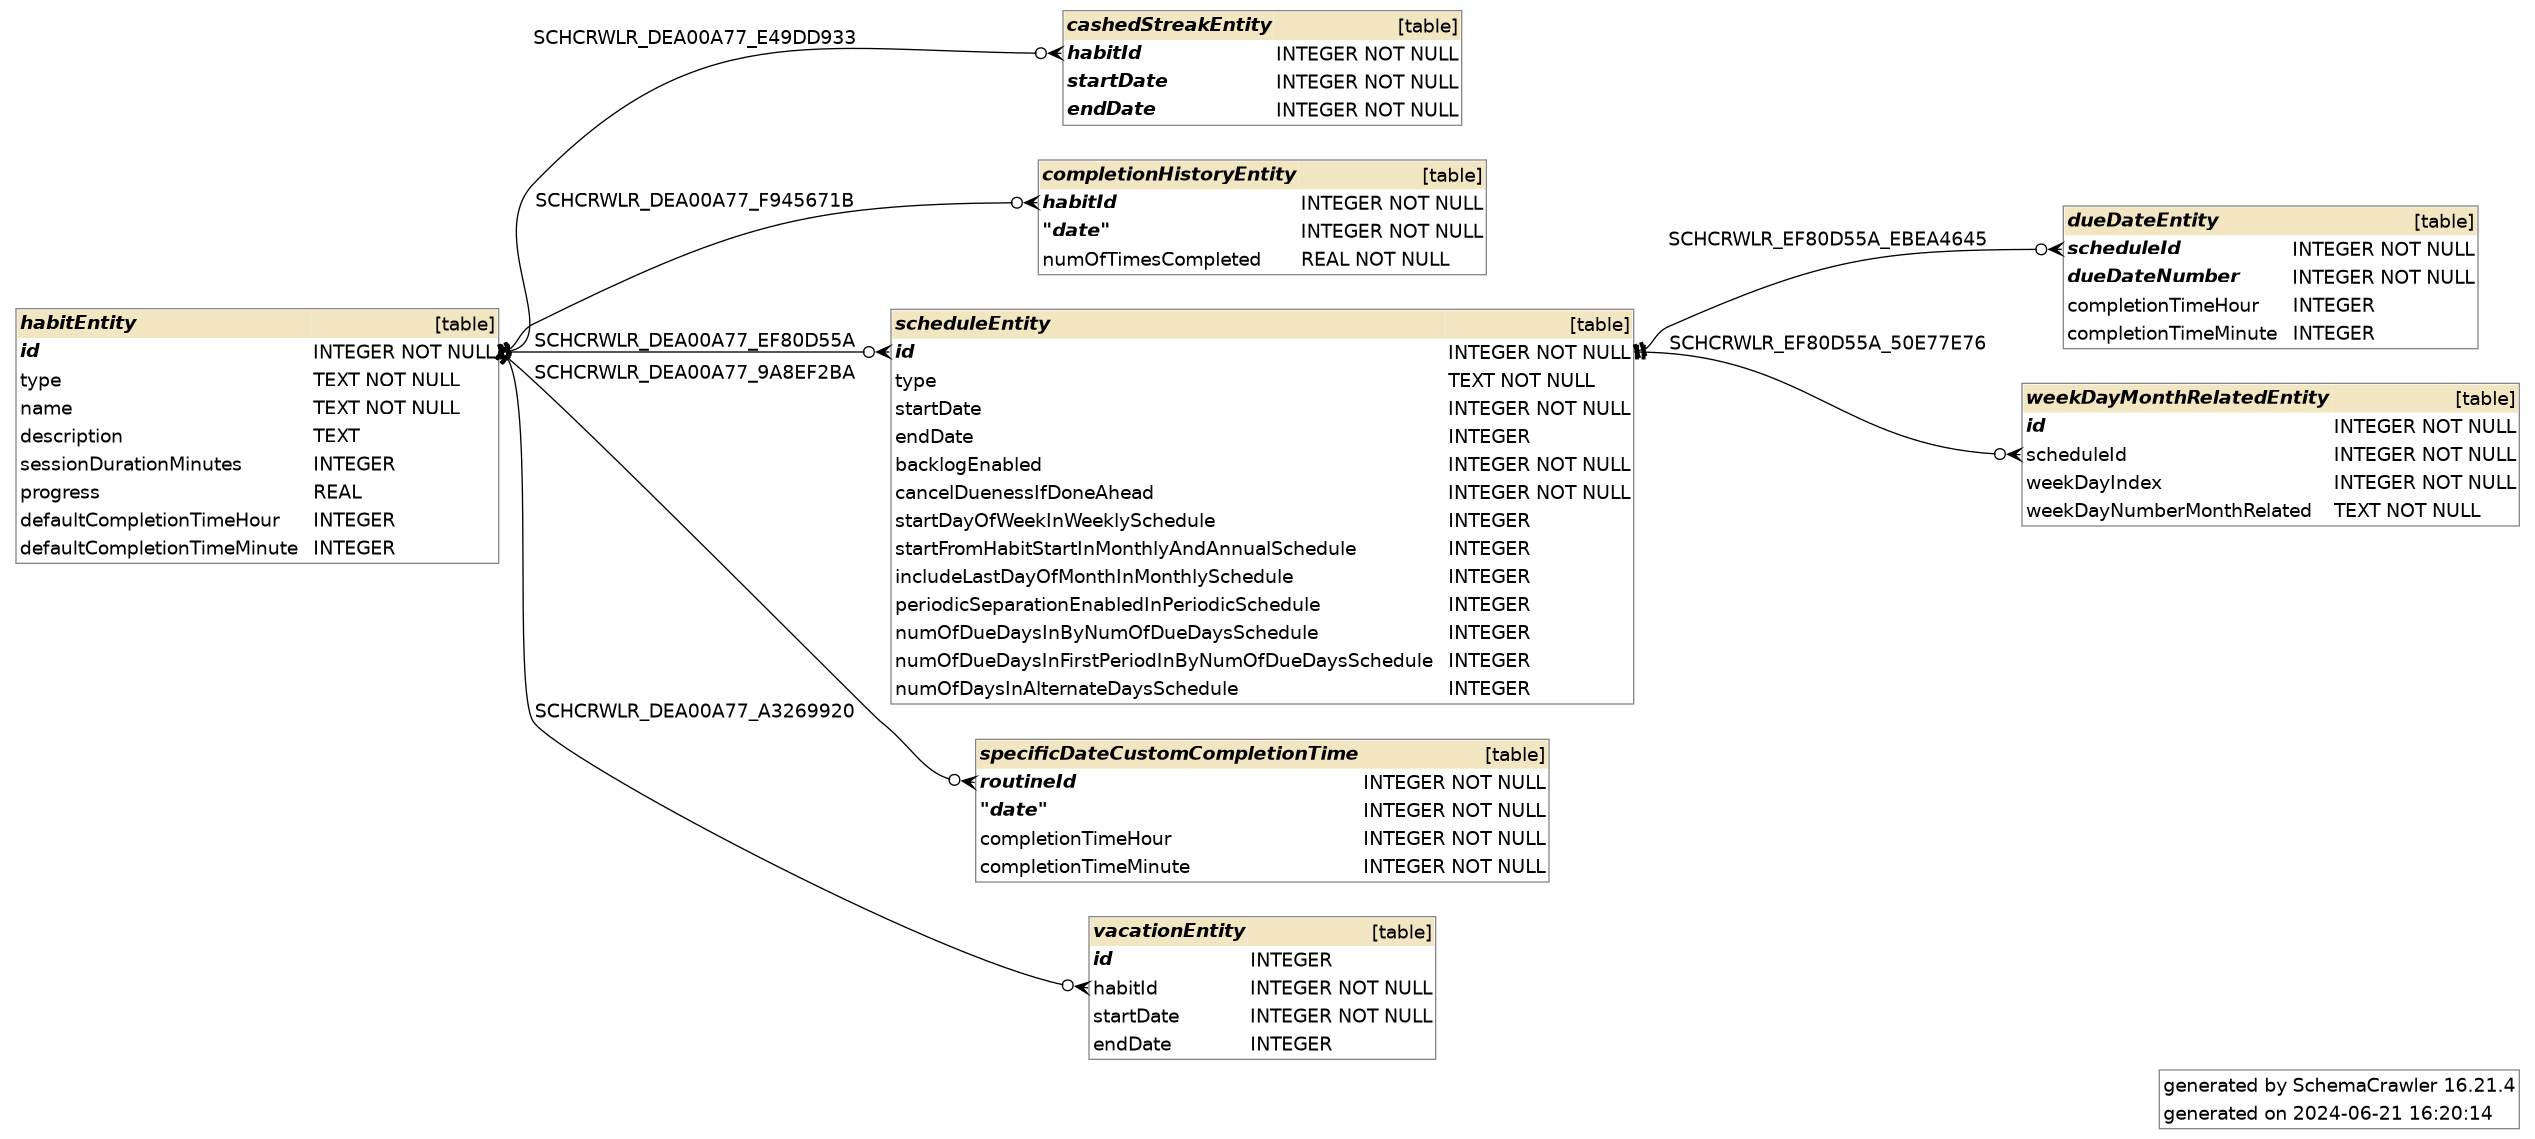
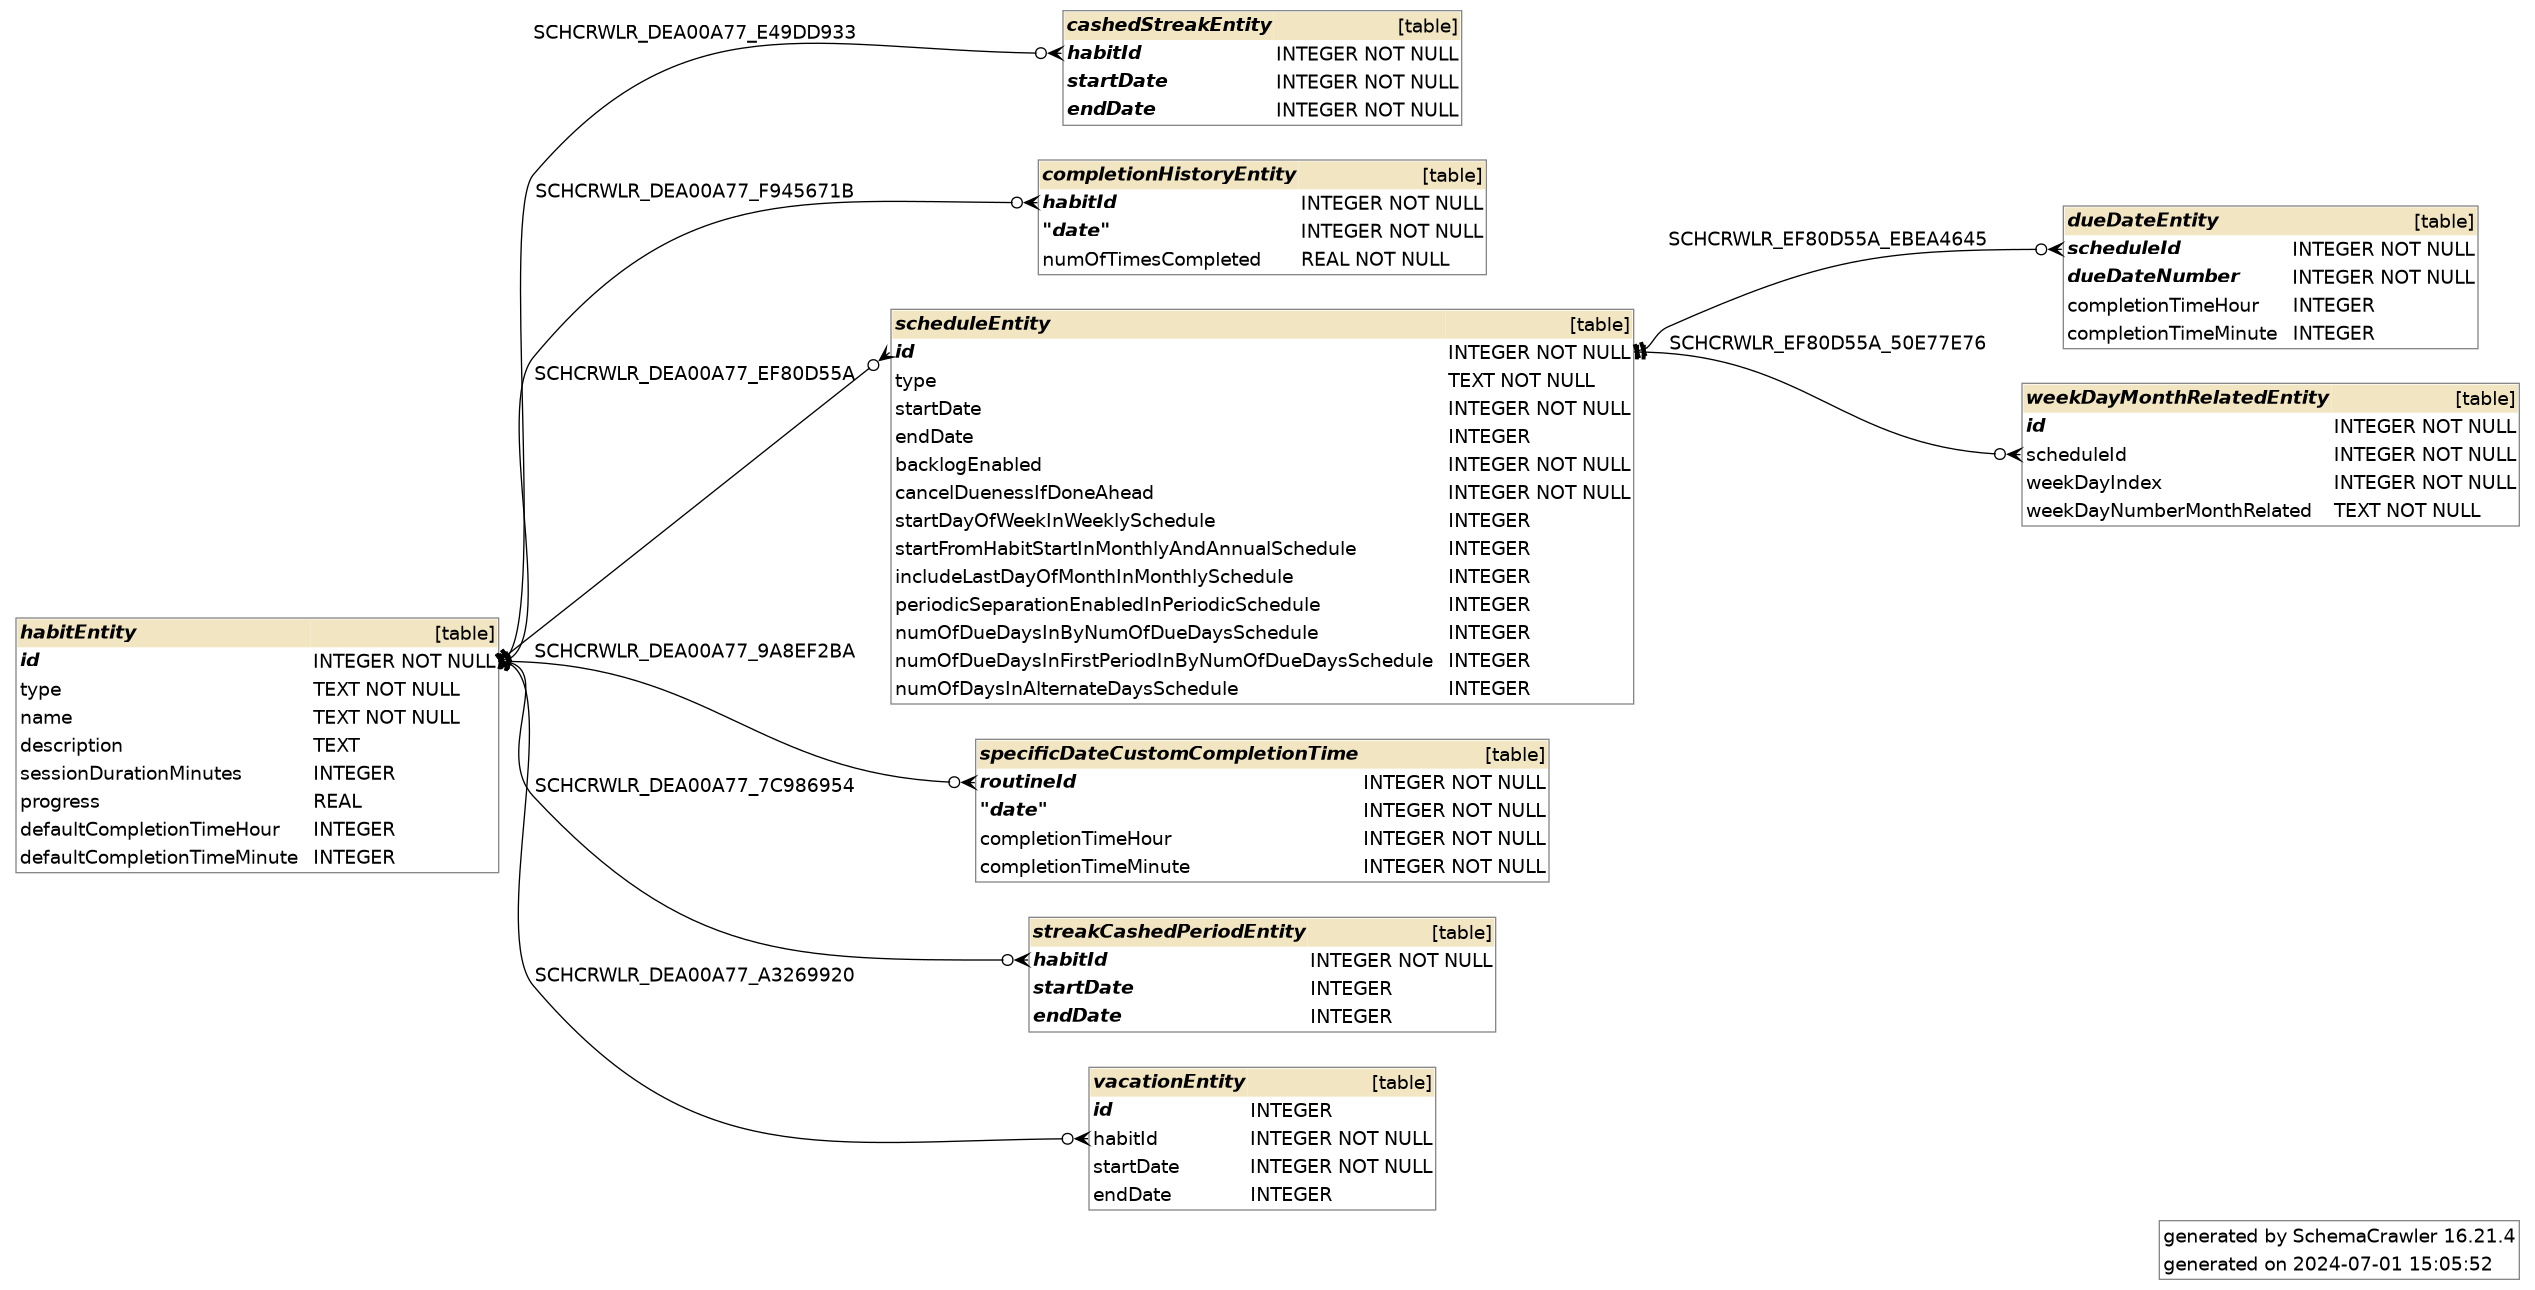
Update DatabaseSchema.md doc: Add missing streakCashedPeriodEntity table
Previously overlooked this table in the documentation.

Changed region(s): [[0.0, 0.0, 0.9972, 0.9526], [0.8414, 0.9219, 0.9972, 1.0], [0.2181, 0.7375, 0.3428, 0.7682]]

diff --git a/docs/DatabaseSchema.md b/docs/DatabaseSchema.md
@@ -32,6 +32,10 @@ This is where habit completions are stored. We store the date of the completion 
 
 This is where cached habit streaks are stored. Whenever the program computes habit streaks, it caches them in this entity for future retrievals to improve performance. A streak is nothing more than a period with a start date and an end date.
 
+## streakCashedPeriodEntity
+
+Periods may not have any streaks but we would still like to know whether a streak has been already computed or not to avoid unnecessary computations. That's why we store these periods in this table. Once the streaks for a certain period are computed, the period gets inserted in this table regardless of whether it actually has any streaks or not. 
+
 ## vacationEntity
 
 `vacationEntity` is very similar to `cachedStreakEntity` but is used for storing habit vacations. A vacation can be just a skipped date, in this case startDate and endDate will be the same or several dates on which the habit is paused and not displayed as due.
